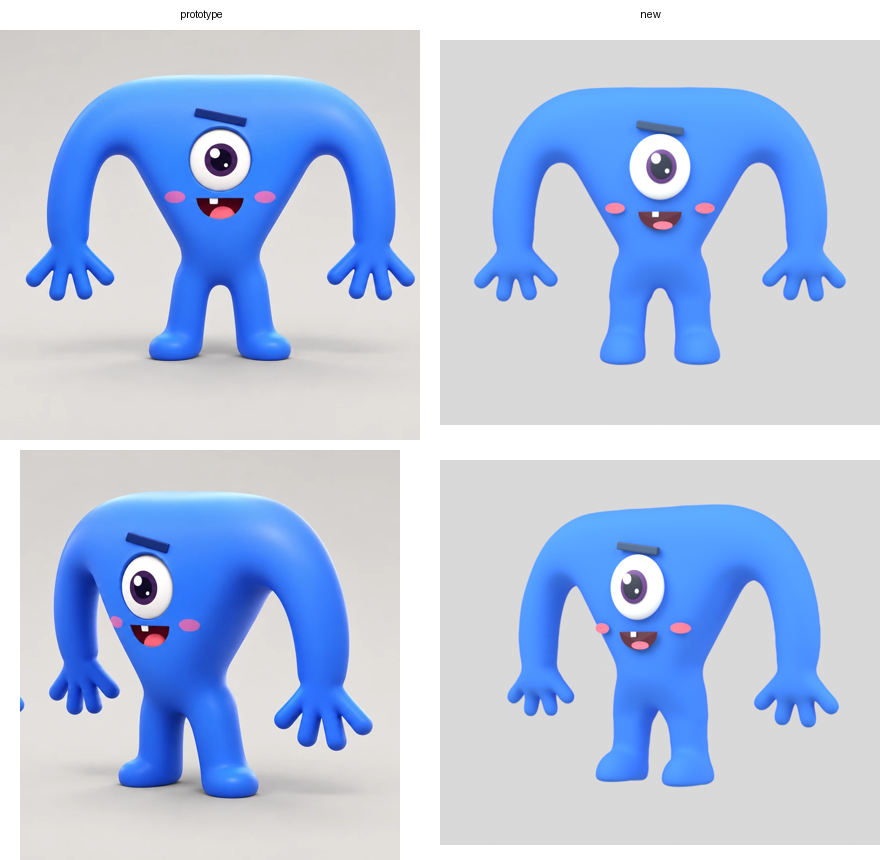
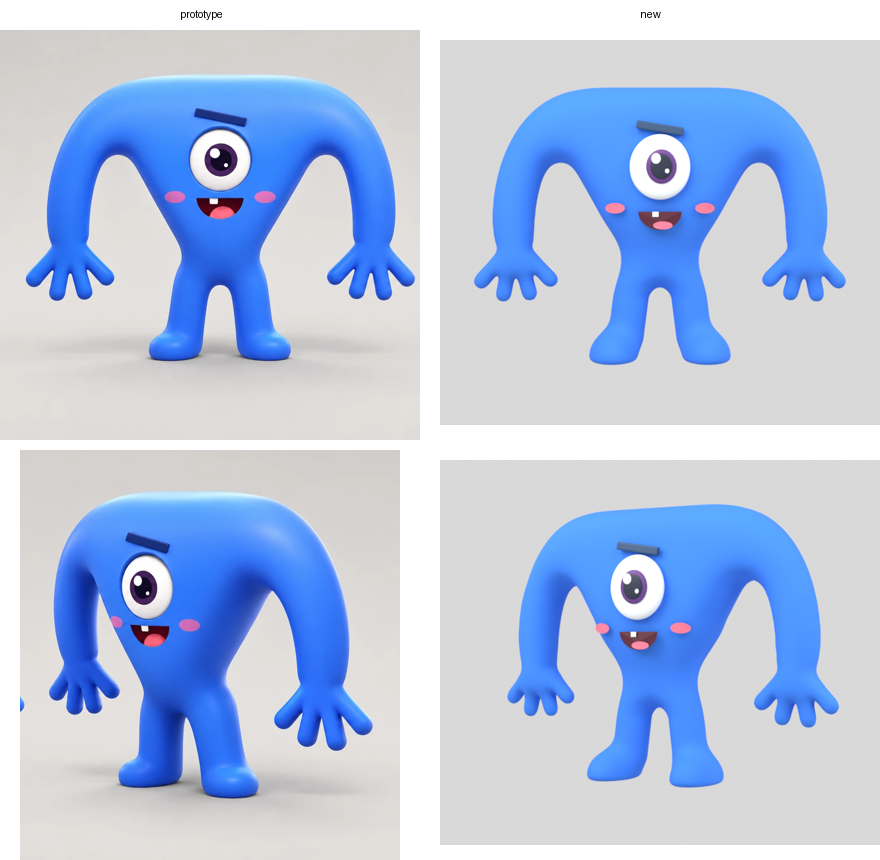
Тело жителя: низ туловища и ноги — одна гладкая форма (трубки по сглаженному |x|), силуэт совпадает с прототипом до 1–2 см
Низ туловища и ноги построены сечениями по высоте: внешний край — контур картинки, внутренний
край ног — просвет с картинки, наверху — скруглённая арка без складок; ноги кончаются в ступнях.
Верх головы — гладкая кривая вместо волнистого контура картинки.

Claude-Session: https://claude.ai/code/session_01Gsst3hFuf1c6zM4f6Jt7o5

diff --git a/art_src/characters/build_body.py b/art_src/characters/build_body.py
@@ -1,11 +1,12 @@
 ## Тело жителя заново — по силуэту прототипа ChatGPT (art_src/characters/prototype_chatgpt.png,
 ## вид спереди слева), вместо кривой скульптуры из BlueBuddy.blend.
-## Силуэт берём с картинки (ноги ниже паха — ровными полосами), делаем строго симметричным и «надуваем» в объём: тонкие части
-## (руки, ноги, пальцы) получают круглое сечение, широкие (голова-туловище) — плоский перед
-## с мягко скруглёнными краями, на нём сидит лицо (y = -DEPTH). Ступни — низкие купола с плоской
-## подошвой, с ногой слиты плавной галтелью. Поверхность снимается marching cubes — гладко и ровно.
+## Голова, плечи, руки и кисти: силуэт с картинки делаем строго симметричным и «надуваем» в объём
+## (тонкие части — круглого сечения, голова — плоский перед под лицом, края мягко скруглены).
+## Низ туловища, ноги и ступни — гладкими формами по размерам с картинки (на «надутом» силуэте
+## там получались уступы): туловище — сечения-суперэллипсы по ширине с картинки, ноги — ровные
+## трубки, ступни — низкие купола; всё слито плавно (smin по нормированным полям), пах — арка.
 ## Масштаб: высота силуэта = 2,41 м; суставы скелета Buddy_ApprovedRig оказываются внутри
-## рук и ног (проверено), поэтому позы в игре остаются те же. Ступни — отдельной формой (_foot).
+## рук и ног (проверено), поэтому позы в игре остаются те же.
 ## Оси как у скелета: x — вправо, y — вперёд/назад (лицо к -y), z — вверх, метры.
 ##   python3 art_src/characters/build_body.py <папка>   → <папка>/body.npz (вершины, треугольники)
 import os
@@ -20,18 +21,19 @@ PROTO = os.path.join(HERE, 'prototype_chatgpt.png')
 HEIGHT = 2.41          # от пола до макушки, м
 STEP = 0.01            # шаг 3D-сетки, м
 DEPTH = 0.385          # полутолщина туловища (лицо — чуть впереди, на y ≈ -0.40)
-HIP_Z = (0.52, 0.95)    # между этими высотами туловище сужается в толщину к ногам
-HIP_DEPTH = 0.17
 PROFILE = 4.0          # как резко толщина упирается в DEPTH: больше — площе перед, туже края
-CROTCH = 0.56          # ниже — ноги не с картинки, а ровные трубки до ступней
-LEG_R = 0.162          # толщина ноги (как на картинке), м
-LEG_TOP_X = 0.25       # ось ноги вверху, внутри туловища (книзу чуть наружу — до FOOT_X)
-LEG_TOP_Z = 0.78
-LEG_END_Z = 0.1        # полоса ноги — до ступни
-CROTCH_ROUND = 0.12    # скругление стыка ног с туловищем (снаружи и арка паха), м
-FOOT_X = 0.31          # ось ноги, м от середины
-FOOT_R = (0.2, 0.32, 0.23)    # полуоси ступни: в стороны, вперёд-назад, вверх (центр чуть над полом)
-FOOT_OUT = 0.02        # ступня смещена наружу
+LOW = (1.25, 1.45)     # ниже — туловище из сечений (между — плавный переход к «надутому»)
+ARMS_X = 0.85          # дальше от середины — руки и кисти («надутые»)
+LOW_DEPTH = 0.36       # полутолщина туловища на высоте LOW[1] (у ног — LEG_R)
+LOW_N = 3.4            # показатель суперэллипса сечения туловища (у ног — 2, круг)
+CROTCH_Z = 0.64        # вершина арки паха (как на картинке)
+SMOOTH_ABS = 0.12      # сглаживание |x| у середины: больше — круглее арка и мягче перед, м
+ARCH_H = 0.08          # от этой высоты под вершиной просвет между ногами начинает закрываться, м
+MERGE_H = 0.35         # над аркой ноги ещё столько сходятся в туловище, м
+LEG_BOTTOM = 0.12      # низ ноги (центр ступни под ним)
+LEG_R = 0.157          # полутолщина ноги спереди-назад, м
+FOOT_R = (0.21, 0.32, 0.22)    # полуоси ступни: в стороны, вперёд-назад, вверх (центр чуть над полом)
+FOOT_OUT = 0.09        # ступня смещена наружу (как на картинке)
 FOOT_FWD = 0.1         # и вперёд
 FOOT_LIFT = 0.04       # центр ступни над полом — бока круглые, подошва плоская
 SOLE_R = 0.05          # скругление края подошвы
@@ -51,25 +53,19 @@ def silhouette():
     crop = m[:, int(cx) - w:int(cx) + w + 1].astype(np.float32)
     sym = ndimage.gaussian_filter((crop + crop[:, ::-1]) * 0.5, 2.5) > 0.5
     scale = HEIGHT / (ys.max() - ys.min())
-    # Ноги с картинки не берём (ниже паха): их строим ровными трубками, ступни — объёмными.
-    mid = int(0.75 / scale)    # только середина — кисти рук висят ниже паха
-    sym[int(ys.max() - CROTCH / scale):, w - mid:w + mid + 1] = False
-    # Ноги — ровные полосы в том же силуэте (надуваются вместе с туловищем — без шва, сечение
-    # круглое). С туловищем сливаются плавно (smin по расстояниям): снаружи — мягкий переход,
-    # между ногами — полукруглая арка паха.
-    H, W = sym.shape
-    rr, cc = np.mgrid[0:H, 0:W]
-    zz = (ys.max() - rr) * scale
-    xx = np.abs(cc - w) * scale
-    a = np.array([LEG_TOP_X, LEG_TOP_Z])
-    ba = np.array([FOOT_X - LEG_TOP_X, LEG_END_Z - LEG_TOP_Z])
-    t = np.clip(((xx - a[0]) * ba[0] + (zz - a[1]) * ba[1]) / (ba @ ba), 0.0, 1.0)
-    legs = np.hypot(xx - a[0] - t * ba[0], zz - a[1] - t * ba[1]) - LEG_R
-    torso = (ndimage.distance_transform_edt(~sym) - ndimage.distance_transform_edt(sym)) * scale
-    k = CROTCH_ROUND
-    h = np.clip(0.5 + 0.5 * (legs - torso) / k, 0.0, 1.0)
-    d = legs * (1 - h) + torso * h - k * h * (1 - h)
-    sym = ndimage.gaussian_filter((d < 0).astype(np.float32), 2.0) > 0.5
+    # Верх головы на картинке слегка волнистый — заменяем его гладкой кривой (чётный многочлен
+    # по x), руки по бокам не трогаем.
+    cols = np.arange(sym.shape[1])
+    xm = (cols - w) * scale
+    top = np.array([np.argmax(sym[:, c]) if sym[:, c].any() else -1 for c in cols])
+    sel = (np.abs(xm) < 1.2) & (top >= 0)
+    coef = np.polyfit(xm[sel] ** 2, top[sel], 3)
+    for c in cols[np.abs(xm) < 1.25]:
+        t = int(round(np.polyval(coef, xm[c] ** 2)))
+        k = np.clip((1.25 - abs(xm[c])) / 0.1, 0.0, 1.0)   # к краю — плавно к исходному контуру
+        t = int(round(t * k + top[c] * (1 - k))) if top[c] >= 0 else t
+        sym[:t, c] = False
+        sym[t:top[c] + 1, c] = True if top[c] >= 0 and t < top[c] else sym[t:top[c] + 1, c]
     return sym, scale, w, ys.max()
 
 
@@ -94,6 +90,65 @@ def _inflate(inside):
     out = np.zeros(inside.shape)
     out[inside] = np.sqrt(2.0 * np.maximum(h, 0.0))
     return ndimage.gaussian_filter(out, 1.0)
+
+
+def _smin(a, b, k):
+    """Плавное объединение полей (k — ширина перехода, м)."""
+    h = np.clip(0.5 + 0.5 * (b - a) / k, 0.0, 1.0)
+    return b * (1 - h) + a * h - k * h * (1 - h)
+
+
+def _smax(a, b, k):
+    """Плавное пересечение полей."""
+    return -_smin(-a, -b, k)
+
+
+def _smooth(t):
+    t = np.clip(t, 0.0, 1.0)
+    return t * t * (3 - 2 * t)
+
+
+def _metric(f):
+    """Поле → примерно расстояние (делим на длину градиента): иначе плавные слияния неровные."""
+    gx, gy, gz = np.gradient(f, STEP)
+    return f / np.maximum(np.sqrt(gx * gx + gy * gy + gz * gz), 0.05)
+
+
+def _center_halfwidth(mask, s, cxp, bottom, z):
+    """Полуширина туловища на высоте z (участок силуэта, содержащий середину), м."""
+    row = mask[int(round(bottom - z / s))]
+    l = r = cxp
+    while l > 0 and row[l - 1]:
+        l -= 1
+    while r < len(row) - 1 and row[r + 1]:
+        r += 1
+    return (r - l + 1) * 0.5 * s
+
+
+def _leg_profiles(mask, s, cxp, bottom):
+    """Гладкие кривые по высоте: внешний край (туловище и ноги) и внутренний край ног, м от середины.
+    Внешний — с картинки (участок у середины), ниже щиколоток (там уже ступни) — продолжение
+    прямой ноги; внутренний край ног — прямая по картинке."""
+    from scipy.interpolate import UnivariateSpline
+    zs, outs, ins = [], [], []
+    for z in np.arange(0.3, LOW[1] + 0.15, 0.01):
+        row = mask[int(round(bottom - z / s))]
+        on = np.nonzero(row[cxp - int(0.75 / s):cxp + int(0.75 / s)])[0] - int(0.75 / s)
+        if len(on) == 0:
+            continue
+        zs.append(z)
+        outs.append((np.abs(on).max() + 0.5) * s)
+        ins.append((np.abs(on).min() - 0.5) * s if not row[cxp] else 0.0)
+    zs, outs, ins = np.array(zs), np.array(outs), np.array(ins)
+    leg = zs < 0.55
+    po = np.polyfit(zs[leg], outs[leg], 1)
+    pi = np.polyfit(zs[leg & (ins > 0)], ins[leg & (ins > 0)], 1)
+    zz = np.concatenate([np.arange(0.0, 0.3, 0.01), zs])
+    oo = np.concatenate([np.polyval(po, np.arange(0.0, 0.3, 0.01)), outs])
+    spl = UnivariateSpline(zz, oo, s=len(zz) * 0.004 ** 2)
+    outer = lambda z: spl(np.clip(z, 0.0, LOW[1] + 0.12))
+    inner = lambda z: np.polyval(pi, z)
+    return outer, inner
 
 
 def _foot(x, y, z, side):
@@ -132,19 +187,43 @@ def build_mesh():
     # сглаживаем сильнее, иначе по верху головы мелкие бугорки.
     wtop = np.clip((Z2 - 1.6) / 0.2, 0.0, 1.0)
     g = g * (1 - wtop) + ndimage.gaussian_filter(g, 4.0) * wtop
-    # Толще DEPTH не бывает — плоский перед под лицом; к паху туловище плавно тоньше (до толщины
-    # ног), иначе на стыке с ногами — уступ.
-    t = np.clip((Z2 - HIP_Z[0]) / (HIP_Z[1] - HIP_Z[0]), 0.0, 1.0)
-    depth = HIP_DEPTH + (DEPTH - HIP_DEPTH) * t * t * (3 - 2 * t)
-    g = (np.maximum(g, 1e-6) ** -PROFILE + depth ** -PROFILE) ** (-1.0 / PROFILE)
+    # Толще DEPTH не бывает — плоский перед под лицом.
+    g = (np.maximum(g, 1e-6) ** -PROFILE + DEPTH ** -PROFILE) ** (-1.0 / PROFILE)
     Y = ys[None, :, None]
-    F = np.maximum(np.abs(Y) - g[:, None, :], d2[:, None, :])
+    F_up = np.maximum(np.abs(Y) - g[:, None, :], d2[:, None, :])
     X3, Y3, Z3 = np.meshgrid(xs, ys, zs, indexing='ij')
-    # Ступня — низкий купол с плоской подошвой, шире ноги (в стороны и вперёд), как на прототипе.
+    F_up = _metric(F_up)
+    w = _smooth((Z3 - LOW[0]) / (LOW[1] - LOW[0]))
+    arms = np.abs(X3) > ARMS_X
+    # Низ туловища с ногами — одна гладкая форма: сечение по высоте — «две трубки» (ноги), которые
+    # кверху толстеют и сходятся к середине, сливаясь в туловище (суперэллипс с плоским передом).
+    # Трубки построены по сглаженному |x| (sqrt(x² + E²)) — слияние без складок и колец, а верх
+    # просвета между ногами сам выходит скруглённой аркой. Внешний край = контур картинки, внутренний
+    # край ног = просвет с картинки; всё — гладкие кривые по высоте.
+    from scipy.interpolate import PchipInterpolator
+    outer, inner = _leg_profiles(mask, s, cxp, bottom)
+    zz = zs
+    E = SMOOTH_ABS
+    oc = np.sqrt(outer(zz) ** 2 + E * E)              # c + a: внешний край ровно по контуру
+    z1, z2 = CROTCH_Z - ARCH_H, CROTCH_Z + MERGE_H
+    kz = np.concatenate([np.arange(0.0, z1 + 1e-6, 0.05), [CROTCH_Z], np.arange(z2, LOW[1] + 0.2, 0.05)])
+    kh = np.concatenate([np.sqrt(inner(np.arange(0.0, z1 + 1e-6, 0.05)) ** 2 + E * E), [E],
+                         -np.sqrt(outer(np.arange(z2, LOW[1] + 0.2, 0.05)) ** 2 + E * E)])
+    h = PchipInterpolator(kz, kh)(np.clip(zz, 0.0, LOW[1] + 0.15))   # c - a
+    c3 = ((oc + h) / 2)[None, None, :]
+    a3 = ((oc - h) / 2)[None, None, :]
+    t = _smooth((zz - (CROTCH_Z - 0.1)) / (LOW[1] - CROTCH_Z + 0.1))[None, None, :]
+    b3 = LEG_R + (LOW_DEPTH - LEG_R) * t
+    n3 = 2.0 + (LOW_N - 2.0) * t
+    u = np.sqrt(X3 * X3 + E * E) - c3
+    q = (np.abs(u) / a3) ** n3 + (np.abs(Y3) / b3) ** n3
+    F_lo = _metric(q ** (1.0 / n3) - 1.0)
+    F_lo = _smax(F_lo, LEG_BOTTOM - Z3, 0.1)          # ноги кончаются в ступнях, не у пола
+    F = np.where(arms, F_up, F_lo * (1 - w) + F_up * w)
+    foot_x = float(np.sqrt(np.maximum(c3[0, 0, np.argmin(np.abs(zz - LEG_BOTTOM))] ** 2 - E * E, 0.0)))
     for sx in (1, -1):
-        foot = _foot(X3 - sx * FOOT_X, Y3, Z3, sx)
-        h = np.clip(0.5 + 0.5 * (foot - F) / 0.08, 0.0, 1.0)
-        F = foot * (1 - h) + F * h - 0.08 * h * (1 - h)
+        # Ступня — низкий купол с плоской подошвой, шире ноги (в стороны и вперёд), как на прототипе.
+        F = _smin(F, _metric(_foot(X3 - sx * foot_x, Y3, Z3, sx)), 0.14)
     verts, faces, _, _ = measure.marching_cubes(F, 0.0, spacing=(STEP, STEP, STEP))
     verts += np.array([xs[0], ys[0], zs[0]])
     return verts.astype(np.float32), faces
